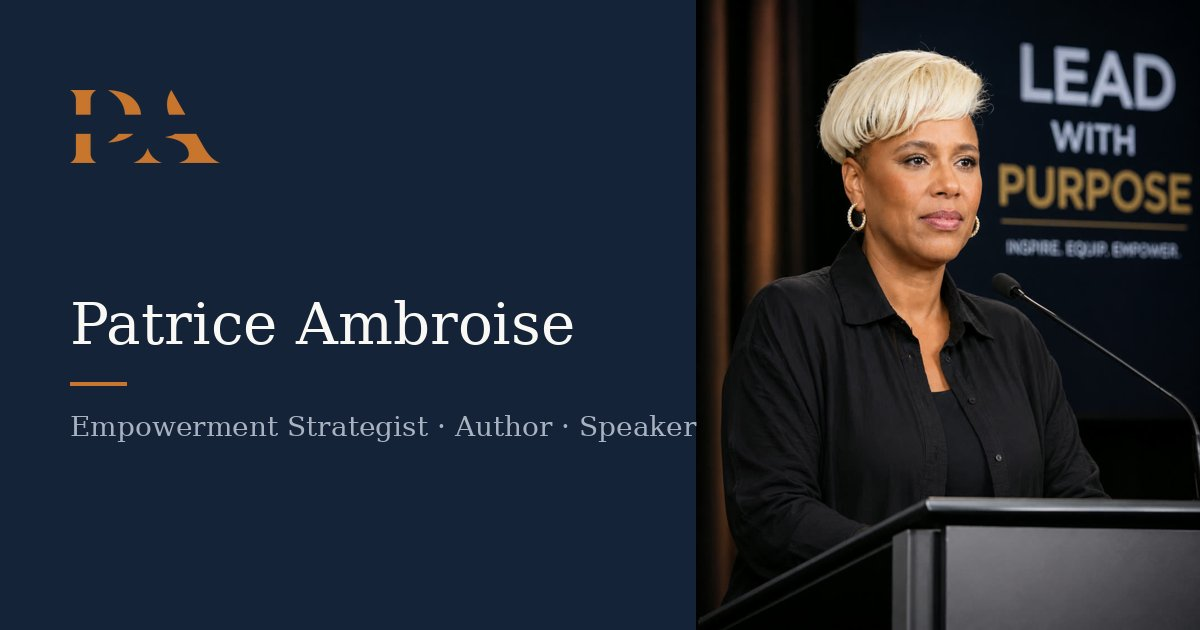
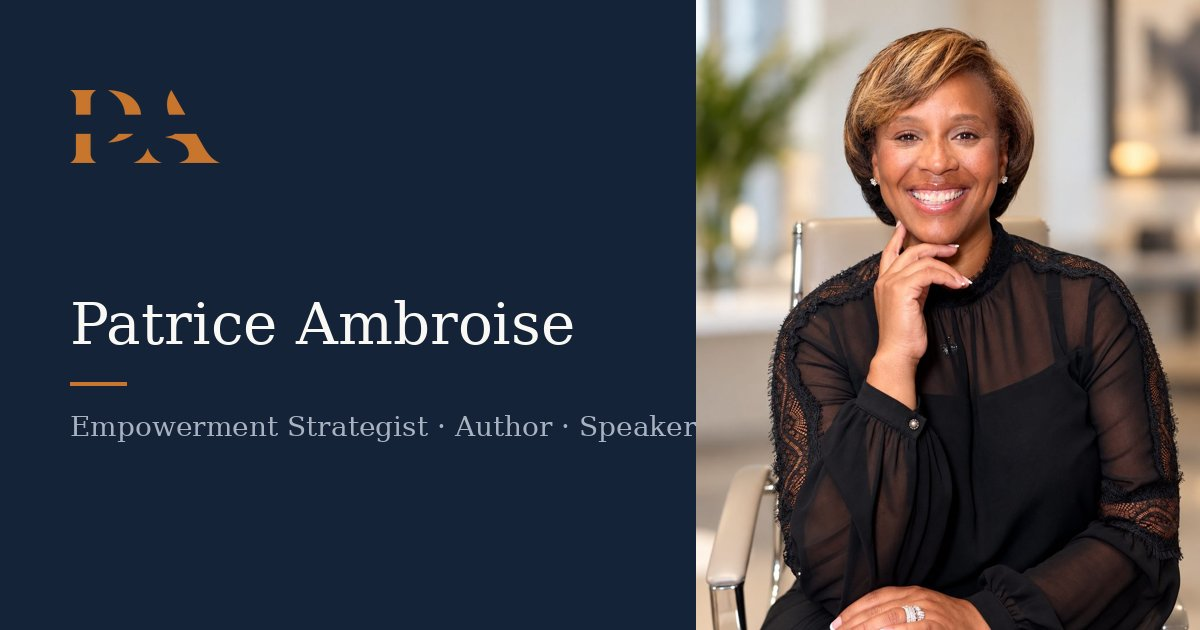
Replace site photos with Patrice's new portraits; keep only headset photo
- Add four new portraits (black lace, green studio, green office, white
  shirt), optimized to 900px WebP + JPEG
- Swap them in on every page; the headset stage photo stays in the
  closing call-to-action sections and Speaking hero
- Remove all other old photos from img/web, including the worship stock
  photo (Faith keynotes now use a portrait)
- Rebuild the link-preview image with the new smiling portrait
- Keep faces in frame when portrait photos are cropped

Claude-Session: https://claude.ai/code/session_013hDHU5LBjc8PFakWY4cGeT

diff --git a/speaking.html b/speaking.html
@@ -81,8 +81,8 @@
 
   <section class="meet">
     <div class="wrap">
-      <div class="meet-photo landscape">
-        <picture><source srcset="img/web/stage.webp" type="image/webp"><img src="img/web/stage.jpg" alt="Patrice Ambroise speaking to an audience with a microphone" width="900" height="622" loading="lazy" decoding="async" /></picture>
+      <div class="meet-photo">
+        <picture><source srcset="img/web/green_studio.webp" type="image/webp"><img src="img/web/green_studio.jpg" alt="Portrait of Patrice Ambroise in a green blouse" width="900" height="1586" loading="lazy" decoding="async" /></picture>
       </div>
       <div class="meet-copy">
         <span class="eyebrow">The Message</span>
@@ -135,7 +135,7 @@
       <p class="section-sub">The setting may change. The audience may change. The commitment to helping people break free from fear never does.</p>
 
       <div class="topic-group " id="topics-corporate">
-        <div class="topic-photo"><picture><source srcset="img/web/board1.webp" type="image/webp"><img src="img/web/board1.jpg" alt="Patrice Ambroise seated at a boardroom table with colleagues" width="800" height="712" loading="lazy" decoding="async" /></picture><div class="topic-photo-label"><span class="eyebrow">For Organizations</span><h3>Leadership &amp; Corporate Keynotes</h3><p>For executives, teams, healthcare, education, and leadership events.</p></div></div>
+        <div class="topic-photo"><picture><source srcset="img/web/green_office.webp" type="image/webp"><img src="img/web/green_office.jpg" alt="Patrice Ambroise standing in an office" width="900" height="1687" loading="lazy" decoding="async" /></picture><div class="topic-photo-label"><span class="eyebrow">For Organizations</span><h3>Leadership &amp; Corporate Keynotes</h3><p>For executives, teams, healthcare, education, and leadership events.</p></div></div>
         <div class="topic-list">
           <div class="topic">
             <span class="topic-num">01</span>
@@ -157,7 +157,7 @@
       </div>
 
       <div class="topic-group faith" id="topics-faith">
-        <div class="topic-photo"><picture><source srcset="img/web/about_sub.webp" type="image/webp"><img src="img/web/about_sub.jpg" alt="Worshippers with hands raised in a sunlit gathering" width="800" height="533" loading="lazy" decoding="async" /></picture><div class="topic-photo-label"><span class="eyebrow">For Churches &amp; Ministries</span><h3>Faith-Based &amp; Ministry Keynotes</h3><p>For congregations, women&rsquo;s conferences, and ministry leaders.</p></div></div>
+        <div class="topic-photo"><picture><source srcset="img/web/lace_smile.webp" type="image/webp"><img src="img/web/lace_smile.jpg" alt="Patrice Ambroise smiling, seated in an office" width="900" height="1299" loading="lazy" decoding="async" /></picture><div class="topic-photo-label"><span class="eyebrow">For Churches &amp; Ministries</span><h3>Faith-Based &amp; Ministry Keynotes</h3><p>For congregations, women&rsquo;s conferences, and ministry leaders.</p></div></div>
         <div class="topic-list">
           <div class="topic">
             <span class="topic-num">05</span>
@@ -210,7 +210,7 @@
         <a class="btn btn-orange" href="contact.html">Check Availability</a>
       </div>
       <div class="final-photo">
-        <picture><source srcset="img/web/hero.webp" type="image/webp"><img src="img/web/hero.jpg" alt="Patrice Ambroise speaking at a podium" width="900" height="1125" loading="lazy" decoding="async" /></picture>
+        <picture><source srcset="img/web/white_seated.webp" type="image/webp"><img src="img/web/white_seated.jpg" alt="Patrice Ambroise smiling, seated in a white shirt" width="900" height="1418" loading="lazy" decoding="async" /></picture>
       </div>
     </div>
   </section>

diff --git a/about.html b/about.html
@@ -73,7 +73,7 @@
         </div>
       </div>
       <div class="hero-photo">
-        <picture><source srcset="img/web/library_book.webp" type="image/webp"><img src="img/web/library_book.jpg" alt="Patrice Ambroise seated in a library holding her book" width="900" height="1350" fetchpriority="high" decoding="async" /></picture>
+        <picture><source srcset="img/web/white_seated.webp" type="image/webp"><img src="img/web/white_seated.jpg" alt="Patrice Ambroise smiling, seated in a white shirt" width="900" height="1418" fetchpriority="high" decoding="async" /></picture>
       </div>
     </div>
   </section>
@@ -81,7 +81,7 @@
   <section class="meet story">
     <div class="wrap">
       <div class="meet-photo">
-        <picture><source srcset="img/web/library.webp" type="image/webp"><img src="img/web/library.jpg" alt="Patrice Ambroise smiling in front of a bookshelf" width="900" height="1077" loading="lazy" decoding="async" /></picture>
+        <picture><source srcset="img/web/green_office.webp" type="image/webp"><img src="img/web/green_office.jpg" alt="Patrice Ambroise standing in an office" width="900" height="1687" loading="lazy" decoding="async" /></picture>
       </div>
       <div class="meet-copy">
         <span class="eyebrow">Her Story</span>
@@ -112,7 +112,7 @@
   <section class="meet reverse">
     <div class="wrap">
       <div class="meet-photo">
-        <picture><source srcset="img/web/portrait_black.webp" type="image/webp"><img src="img/web/portrait_black.jpg" alt="Portrait of Patrice Ambroise" width="900" height="1350" loading="lazy" decoding="async" /></picture>
+        <picture><source srcset="img/web/green_studio.webp" type="image/webp"><img src="img/web/green_studio.jpg" alt="Portrait of Patrice Ambroise in a green blouse" width="900" height="1586" loading="lazy" decoding="async" /></picture>
       </div>
       <div class="meet-copy">
         <span class="eyebrow">In Her Words</span>

diff --git a/coaching.html b/coaching.html
@@ -74,7 +74,7 @@
         </div>
       </div>
       <div class="hero-photo">
-        <picture><source srcset="img/web/coaching1.webp" type="image/webp"><img src="img/web/coaching1.jpg" alt="Patrice Ambroise in conversation with a group" width="900" height="720" fetchpriority="high" decoding="async" /></picture>
+        <picture><source srcset="img/web/white_seated.webp" type="image/webp"><img src="img/web/white_seated.jpg" alt="Patrice Ambroise smiling, seated in a white shirt" width="900" height="1418" fetchpriority="high" decoding="async" /></picture>
       </div>
     </div>
   </section>
@@ -150,7 +150,7 @@
   <section class="meet">
     <div class="wrap">
       <div class="meet-photo">
-        <picture><source srcset="img/web/convo.webp" type="image/webp"><img src="img/web/convo.jpg" alt="Patrice Ambroise speaking to a seated audience" width="900" height="720" loading="lazy" decoding="async" /></picture>
+        <picture><source srcset="img/web/lace_smile.webp" type="image/webp"><img src="img/web/lace_smile.jpg" alt="Patrice Ambroise smiling, seated in an office" width="900" height="1299" loading="lazy" decoding="async" /></picture>
       </div>
       <div class="meet-copy">
         <span class="eyebrow">Her Approach</span>

diff --git a/resources.html b/resources.html
@@ -77,7 +77,7 @@
         </div>
       </div>
       <div class="hero-photo">
-        <picture><source srcset="img/web/hero.webp" type="image/webp"><img src="img/web/hero.jpg" alt="Patrice Ambroise speaking at a podium" width="900" height="1125" fetchpriority="high" decoding="async" /></picture>
+        <picture><source srcset="img/web/green_studio.webp" type="image/webp"><img src="img/web/green_studio.jpg" alt="Portrait of Patrice Ambroise in a green blouse" width="900" height="1586" fetchpriority="high" decoding="async" /></picture>
       </div>
     </div>
   </section>
@@ -125,7 +125,7 @@
   <section class="meet" id="note">
     <div class="wrap">
       <div class="meet-photo">
-        <picture><source srcset="img/web/meet.webp" type="image/webp"><img src="img/web/meet.jpg" alt="Patrice Ambroise seated at a podcast microphone" width="800" height="1600" loading="lazy" decoding="async" /></picture>
+        <picture><source srcset="img/web/lace_smile.webp" type="image/webp"><img src="img/web/lace_smile.jpg" alt="Patrice Ambroise smiling, seated in an office" width="900" height="1299" loading="lazy" decoding="async" /></picture>
       </div>
       <div class="meet-copy">
         <span class="eyebrow">A Note From Patrice</span>

diff --git a/index.html b/index.html
@@ -69,7 +69,7 @@
         </div>
       </div>
       <div class="hero-photo">
-        <picture><source srcset="img/web/hero.webp" type="image/webp"><img src="img/web/hero.jpg" alt="Patrice Ambroise speaking at a podium" width="900" height="1125" fetchpriority="high" decoding="async" /></picture>
+        <picture><source srcset="img/web/lace_smile.webp" type="image/webp"><img src="img/web/lace_smile.jpg" alt="Patrice Ambroise smiling, seated in an office" width="900" height="1299" fetchpriority="high" decoding="async" /></picture>
       </div>
     </div>
   </section>
@@ -111,7 +111,7 @@
   <section class="meet" id="meet">
     <div class="wrap">
       <div class="meet-photo">
-        <picture><source srcset="img/web/meet.webp" type="image/webp"><img src="img/web/meet.jpg" alt="Patrice Ambroise seated at a podcast microphone" width="800" height="1600" loading="lazy" decoding="async" /></picture>
+        <picture><source srcset="img/web/green_studio.webp" type="image/webp"><img src="img/web/green_studio.jpg" alt="Portrait of Patrice Ambroise in a green blouse" width="900" height="1586" loading="lazy" decoding="async" /></picture>
       </div>
       <div class="meet-copy">
         <span class="eyebrow">Meet Patrice</span>

diff --git a/contact.html b/contact.html
@@ -65,7 +65,7 @@
         <p class="subhead">Coaching, speaking, media &mdash; tell me a bit about what you need, and I’ll follow up personally. Let’s move you from fear to freedom, from surviving to thriving, and into a life of peace, power, and purpose.</p>
       </div>
       <div class="hero-photo">
-        <picture><source srcset="img/web/contact_hero.webp" type="image/webp"><img src="img/web/contact_hero.jpg" alt="Patrice Ambroise" width="1000" height="1333" fetchpriority="high" decoding="async" /></picture>
+        <picture><source srcset="img/web/lace_smile.webp" type="image/webp"><img src="img/web/lace_smile.jpg" alt="Patrice Ambroise smiling, seated in an office" width="900" height="1299" fetchpriority="high" decoding="async" /></picture>
       </div>
     </div>
   </section>

diff --git a/media.html b/media.html
@@ -76,7 +76,7 @@
         </div>
       </div>
       <div class="hero-photo">
-        <picture><source srcset="img/web/meet.webp" type="image/webp"><img src="img/web/meet.jpg" alt="Patrice Ambroise at a podcast microphone" width="800" height="1600" fetchpriority="high" decoding="async" /></picture>
+        <picture><source srcset="img/web/green_studio.webp" type="image/webp"><img src="img/web/green_studio.jpg" alt="Portrait of Patrice Ambroise in a green blouse" width="900" height="1586" fetchpriority="high" decoding="async" /></picture>
       </div>
     </div>
   </section>

diff --git a/assets/css/site.css b/assets/css/site.css
@@ -614,3 +614,7 @@ input, select, textarea, .capture input, .modal-form input, .field input, .field
 .burger{-webkit-tap-highlight-color:transparent;}
 .contact-grid h2{margin-inline:0;max-width:none;text-align:left;}
 @media(max-width:699px){ .contact-info .socials{justify-content:flex-start;} }
+
+/* Portrait photos: keep faces in frame when cropped */
+.topic-photo img{object-position:center 18%;}
+.final-photo img, .hero-photo img, .meet-photo img{object-position:center 12%;}
